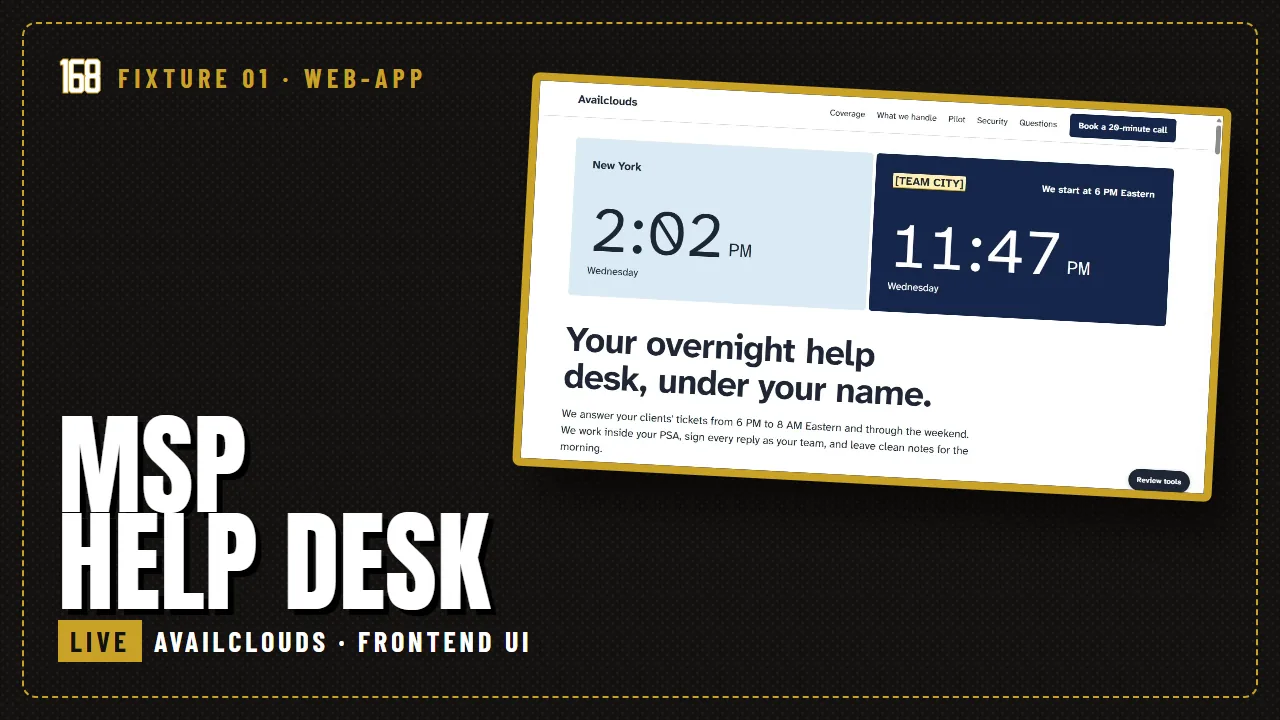
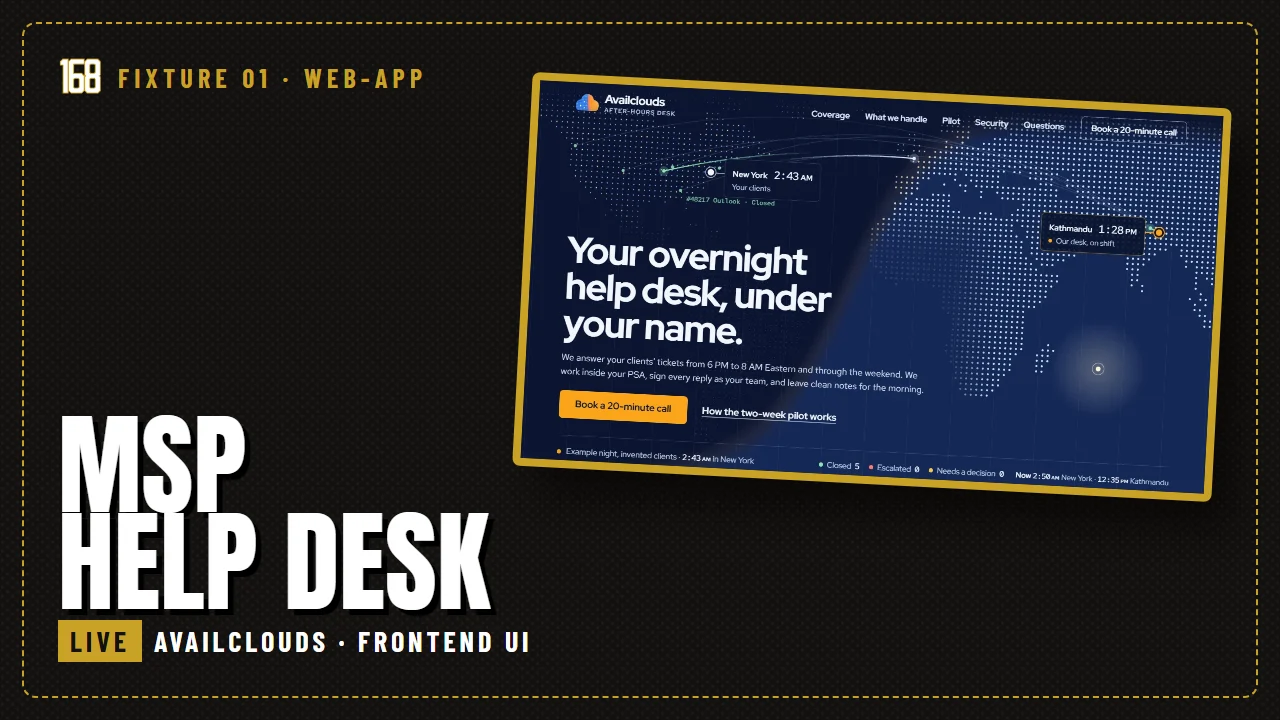
feat(availclouds): portfolio card shows the new design; link back to the portfolio
- Re-shot assets/img/project/availclouds.webp (the hero mid-night, arcs in
  flight) and rebuilt the Dev Fixtures thumbnail thumb-desk.webp from
  tools/thumbs.html?p=desk, so the projects section no longer shows the old
  prototype with its [TEAM CITY] placeholder
- Footer credit: "A project by Krishna Nishad. Back to the portfolio"
- Status bar stays on one line at 1280px (shorter example-night line,
  "Now" chip drops its shift note under 1440px)

Changed region(s): [[0.4062, 0.0917, 0.9688, 0.7028]]

diff --git a/projects/availclouds.html b/projects/availclouds.html
@@ -197,6 +197,7 @@ a { color: inherit; text-underline-offset: 4px; text-decoration-thickness: 1.5px
 .controls { display: none; align-items: center; gap: 22px; }
 .js .controls { display: flex; }
 .livechip { font-size: 14px; }
+@media (max-width: 1439px) { .livechip .long { display: none; } }
 .livechip b { color: var(--text); }
 .livechip .mono { color: var(--text); font-size: 13.5px; }
 .nojs-only { display: inline; }
@@ -503,6 +504,7 @@ a { color: inherit; text-underline-offset: 4px; text-decoration-thickness: 1.5px
 .footer-id { display: grid; gap: 6px; }
 .footer-id .logo { color: var(--text); font-size: 19px; margin-bottom: 4px; }
 .footer-id .mark { width: 40px; height: 30px; }
+.credit a { color: var(--text); }
 .footer-links { display: flex; flex-wrap: wrap; gap: 0 24px; list-style: none; padding: 0; }
 .footer-links a { color: var(--text); display: inline-block; padding-block: 11px; }
 </style>
@@ -942,6 +944,7 @@ a { color: inherit; text-underline-offset: 4px; text-decoration-thickness: 1.5px
       <a class="logo" href="#main" aria-label="Availclouds, back to top"><svg class="mark" aria-hidden="true"><use href="#acMark"/></svg><span class="word"><b>Availclouds</b><small>After-hours desk</small></span></a>
       <p>Availclouds LLC, 701 Rising Star Dr, Henderson, NV 89014.</p>
       <p>&copy; <span id="year">2026</span> Availclouds LLC</p>
+      <p class="credit">A project by Krishna Nishad. <a href="/#projects">Back to the portfolio</a></p>
     </div>
     <ul class="footer-links">
       <li><a href="https://availclouds.com/">Availclouds home</a></li>
@@ -1402,7 +1405,7 @@ a { color: inherit; text-underline-offset: 4px; text-decoration-thickness: 1.5px
     document.querySelector('[data-shift-dot]').hidden = !on;
     var st = $('status-text');
     if (mode === 'night') {
-      st.innerHTML = 'Example night, invented clients &middot; <span class="mono">' + h[0] + '</span> in New York &middot; <span class="mono">' + h[1] + '</span> in Kathmandu';
+      st.innerHTML = 'Example night, invented clients &middot; <span class="mono">' + h[0] + '</span> in New York';
     } else if (mode === 'hold') {
       st.innerHTML = '<b>8:00 AM: morning handoff sent.</b> <a href="#handoff">Read the note</a>';
     } else if (mode === 'day') {
@@ -1414,7 +1417,7 @@ a { color: inherit; text-underline-offset: 4px; text-decoration-thickness: 1.5px
   /* The real clocks stay visible while the example loops */
   function setLiveChip() {
     var d = new Date(), on = covered(d, NY);
-    $('livechip').innerHTML = '<b>Now</b> <span class="mono">' + clockHTML(d, NY) + '</span> New York &middot; <span class="mono">' + clockHTML(d, TEAM_TZ) + '</span> Kathmandu &middot; ' + (on ? 'desk on shift' : 'desk starts 6 PM ET');
+    $('livechip').innerHTML = '<b>Now</b> <span class="mono">' + clockHTML(d, NY) + '</span> New York &middot; <span class="mono">' + clockHTML(d, TEAM_TZ) + '</span> Kathmandu<span class="long"> &middot; ' + (on ? 'desk on shift' : 'desk starts 6 PM ET') + '</span>';
   }
   function setMode(m) { mode = m; hero.setAttribute('data-mode', m); lastPinText = ''; }
 
